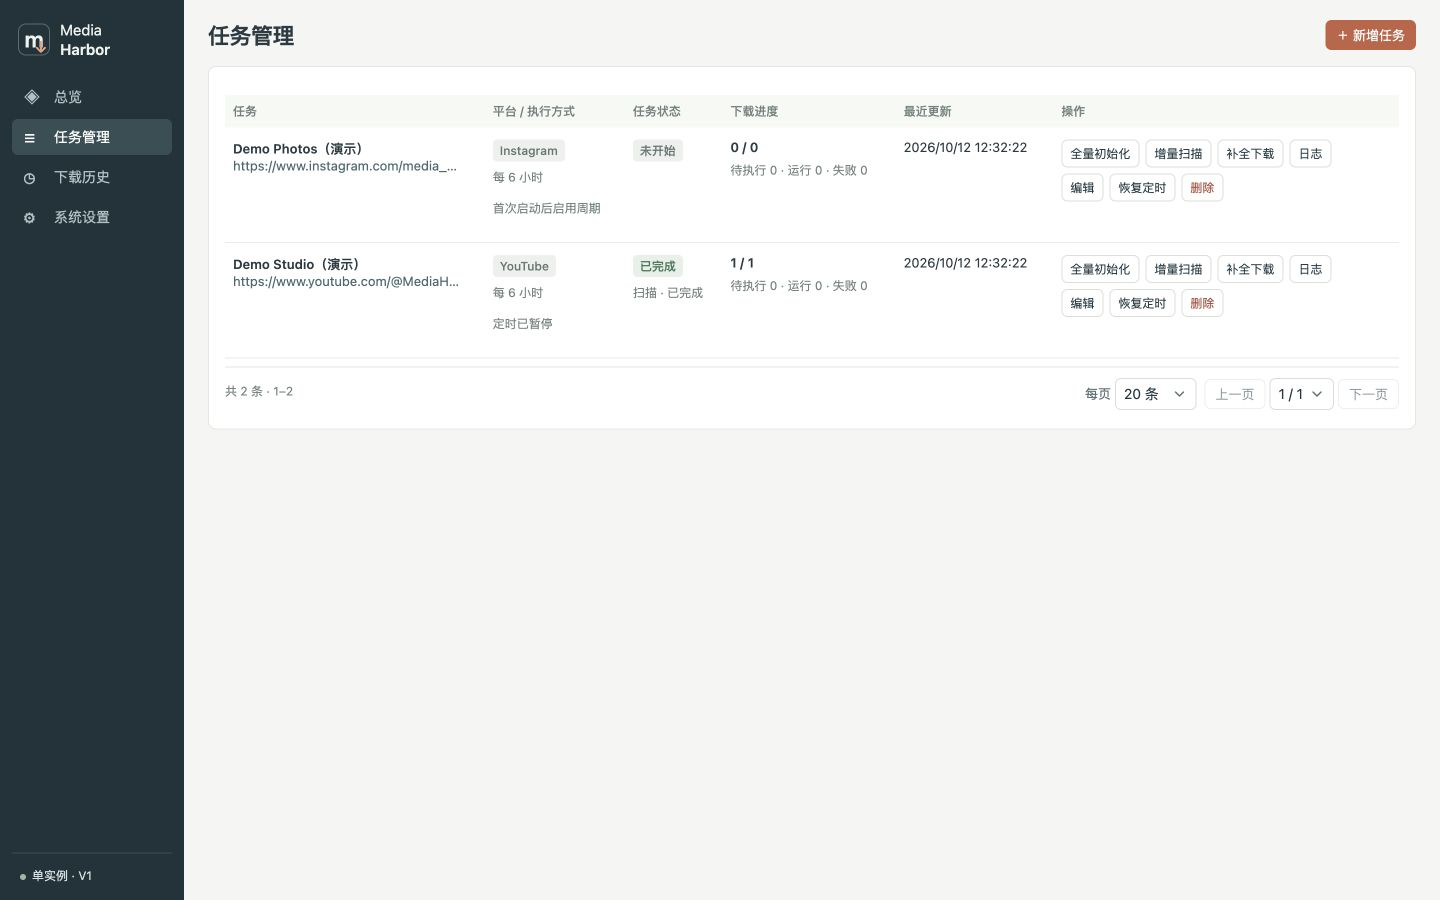
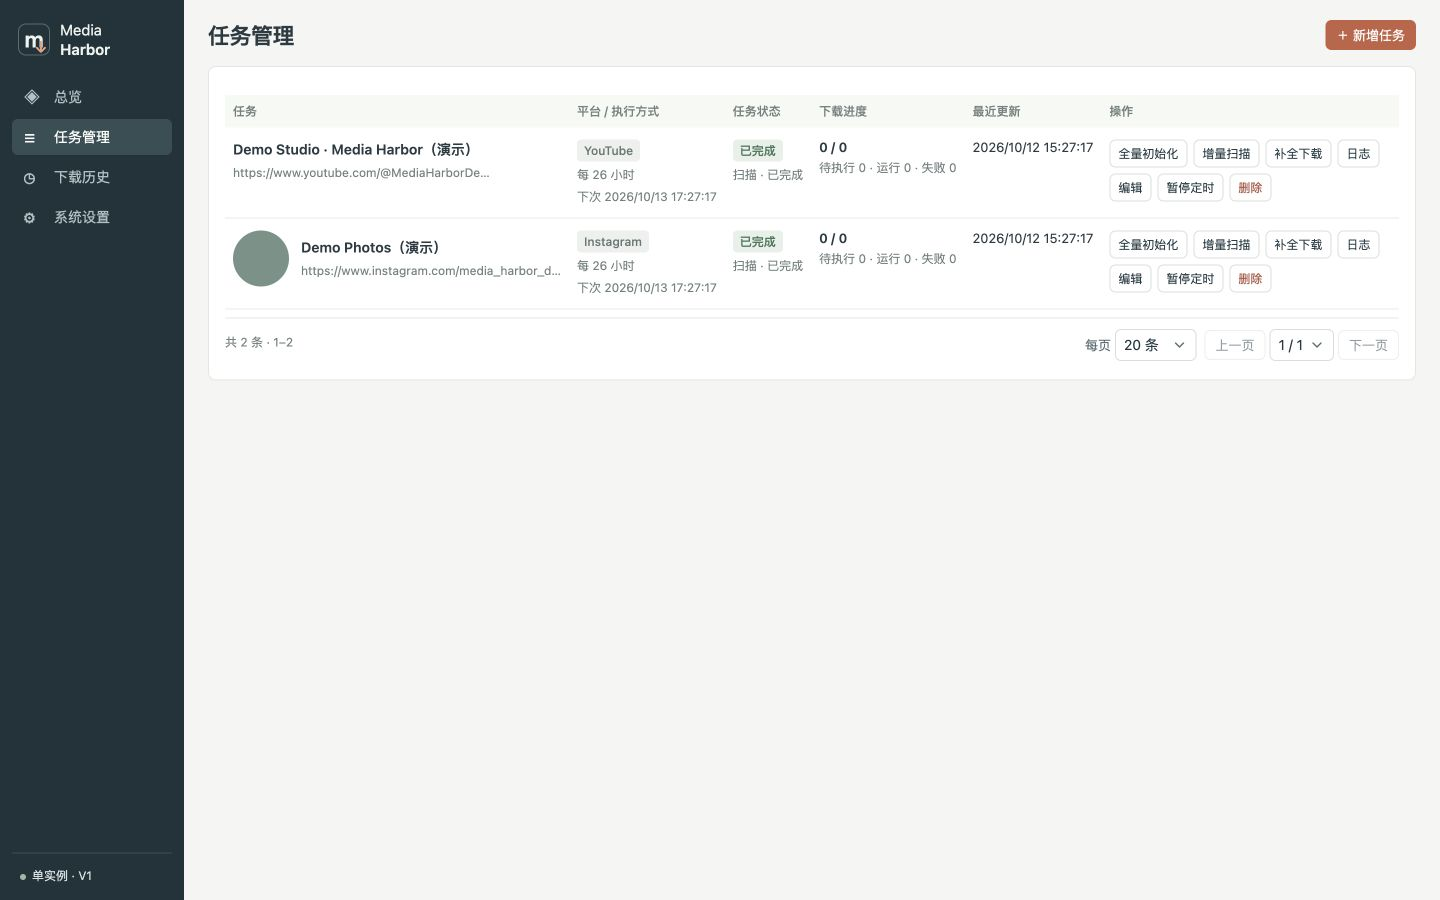
update ui

diff --git a/web/src/style.css b/web/src/style.css
@@ -288,12 +288,16 @@ textarea{resize:vertical;margin-bottom:8px;line-height:1.5}
 }
 
 /* 任务配置与执行汇总共用紧凑表格，操作在单元格内换行。 */
-.management-table .task-name{max-width:230px;min-width:160px}
-/* 头像共用任务名称所在单元格，保持一配置一行和既有纵向密度。 */
-.task-author{display:flex;align-items:center;gap:8px;min-width:0}
-.task-avatar{width:32px;height:32px;object-fit:cover;border-radius:50%;flex-shrink:0}
-.task-author-text{min-width:0}
-.management-table .task-name strong,.management-table .task-name a{display:block;max-width:230px;overflow:hidden;text-overflow:ellipsis;white-space:nowrap}
+.management-table .task-name{width:28%;min-width:240px}
+/* 放大头像并给名称与地址独立文字空间，信息在同一行内对齐。 */
+.task-author{display:flex;align-items:center;gap:12px;min-width:0}
+.task-avatar{width:56px;height:56px;object-fit:cover;border-radius:50%;flex-shrink:0}
+.task-author-text{flex:1;min-width:0}
+.management-table .task-name strong,.management-table .task-name a{display:block;max-width:260px;overflow:hidden;text-overflow:ellipsis;white-space:nowrap}
+.management-table .task-name strong{font-size:14px;line-height:20px}
+.management-table .task-name a{margin-top:4px;font-size:12px;line-height:18px;color:var(--muted)}
+/* 周期、下次执行和队列统计采用相同小间距，避免辅助文案撑高整行。 */
+.management-table td .help{margin:4px 0 0;line-height:18px}
 .management-table .actions{min-width:240px;max-width:290px;white-space:normal}
 
 /* 队列窄屏保持文字横排，由表格容器滚动查看后续列。 */

diff --git a/docs/部署与开发.md b/docs/部署与开发.md
@@ -92,13 +92,13 @@ cd web && npm run build
 
 当前远程仓库为 `leapsea/media-harbor`，对应镜像地址为 `ghcr.io/leapsea/media-harbor`。首次发布后，如需匿名拉取，在 Packages 中将镜像可见性设为 Public。
 
-版本号保存在 `internal/config/release.json`。发布时先修改其中的 `version`，提交代码，再在对应提交上创建同名的 `v` 标签。例如从 `1.0.10` 升到 `1.1.0`：
+版本号保存在 `internal/config/release.json`。发布时先修改其中的 `version` 并提交代码，再运行 `scripts/tag.sh`。脚本读取版本号、创建对应的 `v` 标签并推送至 `origin`，触发镜像构建。例如将版本改为 `1.1.0` 后：
 
 ```sh
 git add internal/config/release.json
 git commit -m "Release v1.1.0"
-git tag -a v1.1.0 -m "Media Harbor 1.1.0"
-git push --atomic origin main refs/tags/v1.1.0
+git push origin main
+sh scripts/tag.sh
 ```
 
 手动运行可指定 gallery-dl、yt-dlp、FFmpeg 的版本。FFmpeg 使用 Alpine 包版本，独立于 Python 包。固定镜像标签或 digest 部署，回滚时改回已有镜像引用：
